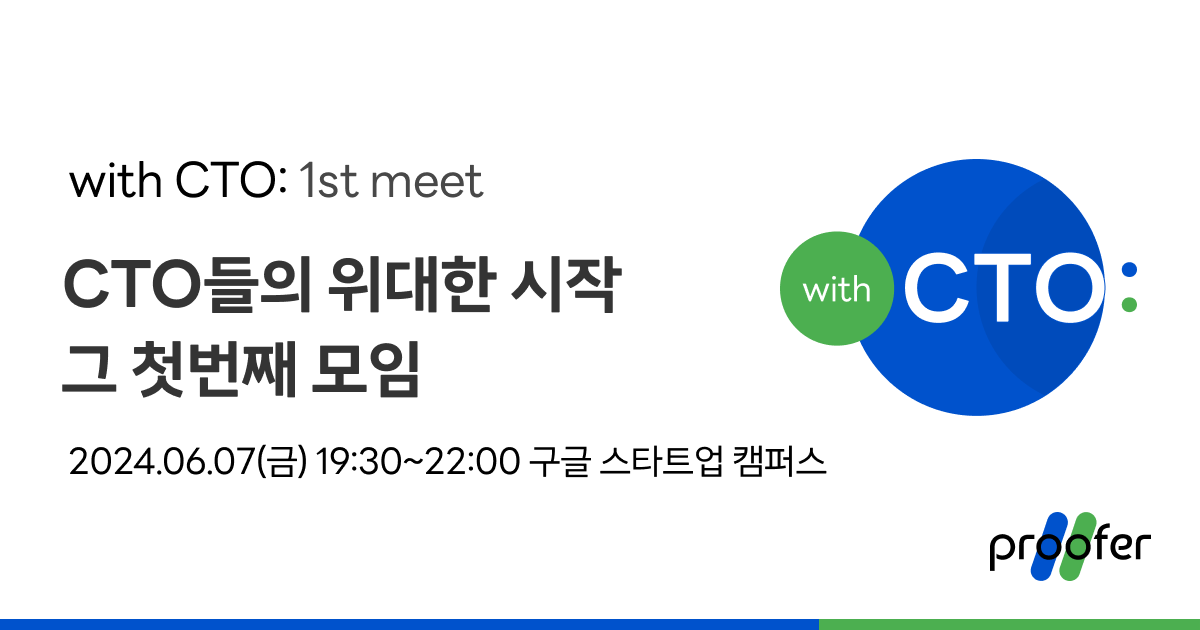
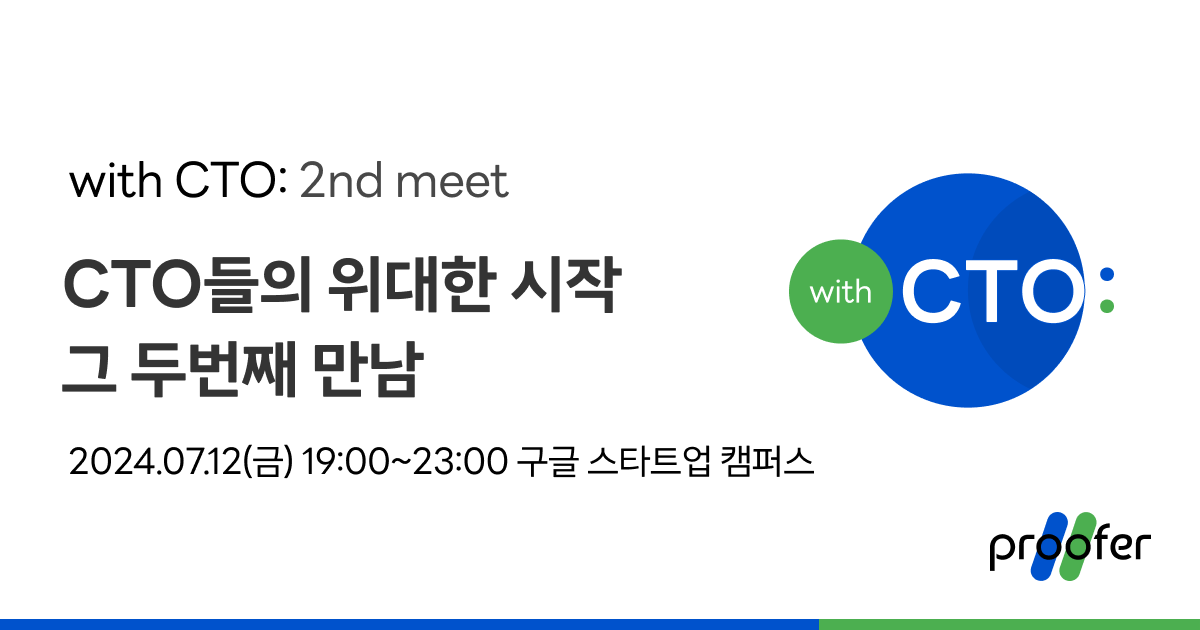
2nd meet 추가 및 범용 페이지로 변경

diff --git a/app/with-cto/1st/page.tsx b/app/with-cto/1st/page.tsx
@@ -26,7 +26,7 @@ export default function Page() {
           <Stack gap={0} justify={"center"} h={"100%"}>
             <Stack gap={0} mb={"md"}>
               <Text size={"md"} c={"var(--mantine-color-gray-8)"}>
-                CTO들의 위대한 시작, 그 두번째 만남
+                CTO들의 위대한 시작, 그 첫번째 모임
               </Text>
               <Group align={"center"} p={0}>
                 <Image
@@ -42,16 +42,16 @@ export default function Page() {
                   }}
                 />
                 <Text c={"var(--mantine-color-gray-5)"} size={"xl"}>
-                  2nd meet
+                  1st meet
                 </Text>
               </Group>
               <Text>
-                on <Code>2024.07.12 19:00</Code> at{" "}
+                on <Code>2024.06.07 19:30</Code> at{" "}
                 <Code>Google Startup Campus</Code>
               </Text>
             </Stack>
             <Group>
-              <Button size={"lg"} component="a" href="/with-cto/join">
+              <Button size={"lg"} component="a" href="https://bit.ly/with-cto">
                 참여등록 하러가기
               </Button>
               <CopyWithCTOButton size={"lg"} />
@@ -150,11 +150,11 @@ export default function Page() {
           </Text>
           <Space h={"1em"} />
           <Text>
-            그럼 2024년 7월 12일 금요일 저녁 7시 구글 스타트업 캠퍼스에서
+            그럼 2024년 6월 7일 금요일 저녁 7시 30분 구글 스타트업 캠퍼스에서
             만나요!
           </Text>
           <Group py={"xl"}>
-            <Button size={"lg"} component="a" href="/with-cto/join">
+            <Button size={"lg"} component="a" href="https://bit.ly/with-cto">
               참여등록 하러가기
             </Button>
             <CopyWithCTOButton size={"lg"} />

diff --git a/app/with-cto/1st/layout.tsx b/app/with-cto/1st/layout.tsx
@@ -1,0 +1,25 @@
+import "@react-pdf-viewer/core/lib/styles/index.css";
+import React from "react";
+import { merge } from "lodash";
+import { generateMetadataFromTitle } from "@/src/manifest";
+
+export const metadata = merge(
+  {
+    metadataBase: new URL("https://proofer.tech/"),
+    keywords: ["CTO", "CTO 커뮤니티", "컨퍼런스", "세미나"],
+    openGraph: {
+      locale: "ko",
+      type: "website",
+      url: "https://proofer.tech/with-cto",
+      images: ["/assets/images/with-cto/og-image-1st.png"],
+    },
+  },
+  generateMetadataFromTitle({
+    title: "with CTO: 1st meet",
+    description:
+      "프루퍼팀에서 준비한 CTO 커뮤니티 CTO들의 위대한 시작, with CTO: the agora of CTO ... 구글 스타트업 캠퍼스 에서 만나요!",
+  }),
+);
+export default async function Layout({ children }: any) {
+  return <>{children}</>;
+}

diff --git a/app/with-cto/manifest.ts b/app/with-cto/manifest.ts
@@ -2,10 +2,10 @@ import { MetadataRoute } from "next";
 
 export default function manifest(): MetadataRoute.Manifest {
   return {
-    name: "with CTO: 1st Meet",
+    name: "with CTO: the agora of CTO",
     short_name: "with CTO:",
     description:
-      "CTO들의 위대한 시작, 그 첫번째 모임. 프루퍼팀에서 준비한 with CTO: 2024년 6월 7일 금요일 저녁 7시 30분 구글 스타트업 캠퍼스 에서 만나요!",
+      "프루퍼팀에서 준비한 CTO 커뮤니티 CTO들의 위대한 시작, with CTO: the agora of CTO ... 구글 스타트업 캠퍼스 에서 만나요!",
     start_url: "/",
     display: "minimal-ui",
     background_color: "#ffffff",

diff --git a/app/with-cto/layout.tsx b/app/with-cto/layout.tsx
@@ -67,9 +67,9 @@ export const metadata = merge(
     },
   },
   generateMetadataFromTitle({
-    title: "with CTO: 1st meet",
+    title: "with CTO: the agora of CTO",
     description:
-      "CTO들의 위대한 시작, 그 첫번째 모임. 프루퍼팀에서 준비한 with CTO: 2024년 6월 7일 금요일 저녁 7시 30분 구글 스타트업 캠퍼스 에서 만나요!",
+      "프루퍼팀에서 준비한 CTO 커뮤니티 CTO들의 위대한 시작, with CTO: the agora of CTO ... 구글 스타트업 캠퍼스 에서 만나요!",
   }),
 );
 export default async function Layout({ children }: any) {
